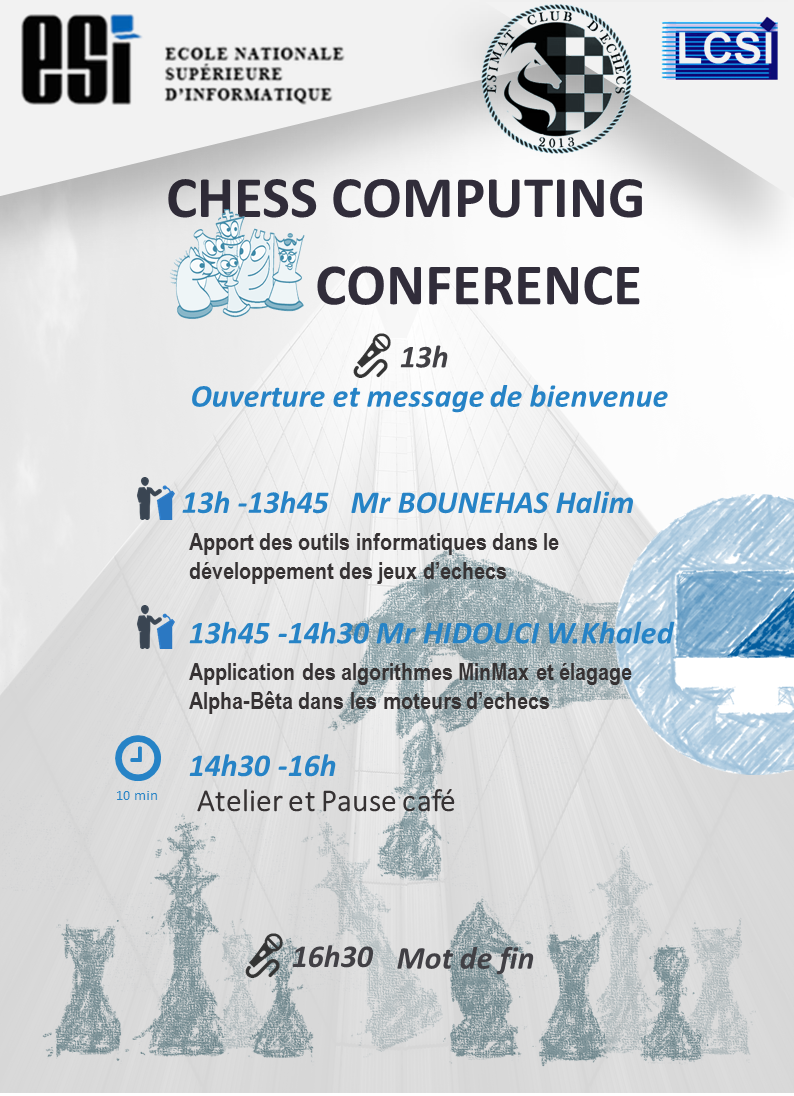
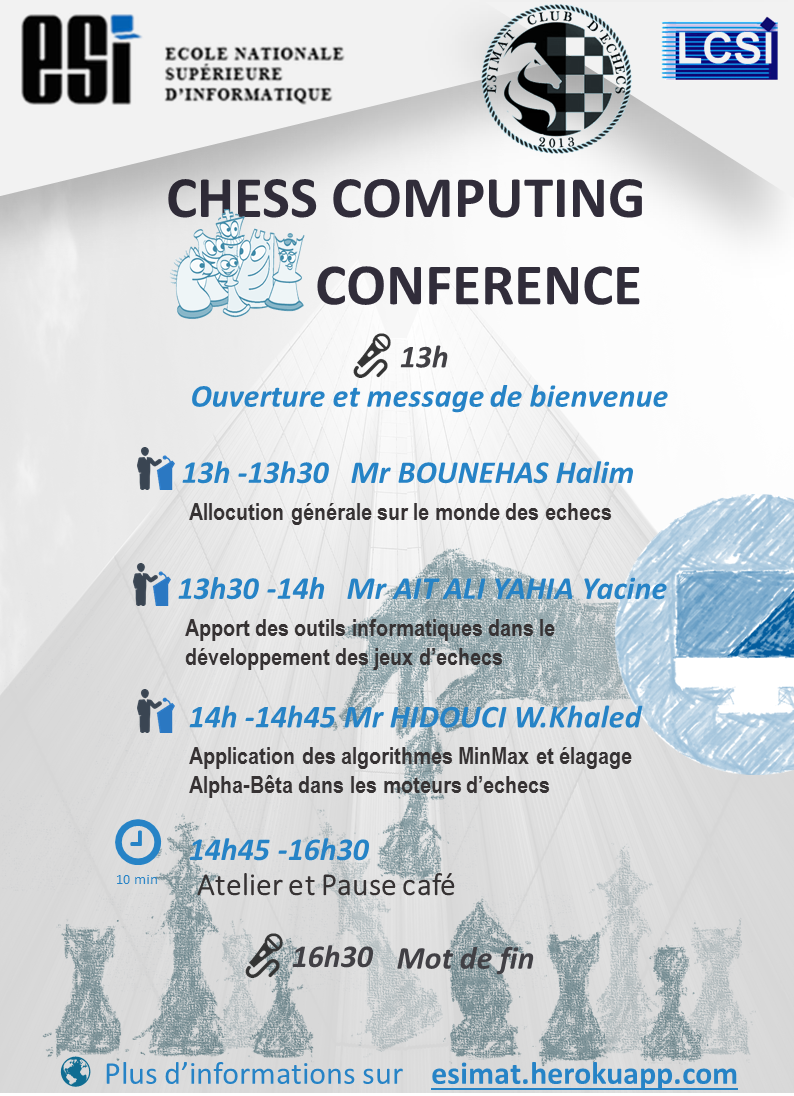
last commit

Changed region(s): [[0.1209, 0.4033, 0.8463, 0.8376], [0.5441, 0.9617, 0.937, 1.0], [0.0605, 0.9617, 0.5139, 0.9927]]

diff --git a/conf.html b/conf.html
@@ -63,7 +63,7 @@
 					<p>
 		              Le club d’échec ESIMAT avec le concours du laboratoire LCSI organise la troisième conférence débat sur le  chess  computing le Mardi 14 Février à 13h à l’auditorium.
 		              Une plénière dont le thème est  ʺ Algorithme Minimax et élagage alpha betaʺ  sera animée par le professeur HIDOUCI  Walid, celle-ci s’adresse particulièrement aux étudiants du cycle CPI et 1CS. Par ailleurs, en atelier des programmes simples réalisés par des étudiants 2CS SIQ/SIL seront mis à la disposition des étudiants  intéressés et ce  dans le cadre du lancement  l’année prochaine des premières  olympiades nationales des moteurs d’échecs.
-		              Dans la tradition et pour enrichir le débat chaque année le club ESIMAT invite une personnalité du monde des échecs ; cette année notre invité est Mr BOUNEHAS Halim ancien arbitre international et qui fut président de la fédération algérienne des échecs de 1998 à 2009. Durant cette période il a aussi été président de l’union méditerranéenne des échecs. Parmi ces amis on compte Anatoly KARPOV ancien champion du monde des échecs et Bachar KOUATLY actuellement président de la fédération française des échecs. Dans son allocution il abordera entre autre de l’apport des outils informatiques pour l’entrainement des joueurs de haut niveau.
+		              Dans la tradition et pour enrichir le débat chaque année le club ESIMAT invite une personnalité du monde des échecs ; cette année notre invité est Mr BOUNEHAS Halim ancien arbitre international et qui fut président de la fédération algérienne des échecs de 1998 à 2009. Durant cette période il a aussi été président de l’union méditerranéenne des échecs. Parmi ces amis on compte Anatoly KARPOV ancien champion du monde des échecs et Bachar KOUATLY actuellement président de la fédération française des échecs. 
 		              Le public de l’ESI (enseignants, étudiants) et toute personne extérieure désirant assister et participer aux débats sont cordialement invités à cette conférence.
 					</p>
           		<center><img src="img/conf3-prog.png"></center>

diff --git a/conf3.html b/conf3.html
@@ -71,7 +71,7 @@
 					<p>
               Le club d’échec ESIMAT avec le concours du laboratoire LCSI organise la troisième conférence débat sur le  chess  computing le Mardi 14 Février à 13h à l’auditorium.
               Une plénière dont le thème est  ʺ Algorithme Minimax et élagage alpha betaʺ  sera animée par le professeur HIDOUCI  Walid, celle-ci s’adresse particulièrement aux étudiants du cycle CPI et 1CS. Par ailleurs, en atelier des programmes simples réalisés par des étudiants 2CS SIQ/SIL seront mis à la disposition des étudiants  intéressés et ce  dans le cadre du lancement  l’année prochaine des premières  olympiades nationales des moteurs d’échecs.
-              Dans la tradition et pour enrichir le débat chaque année le club ESIMAT invite une personnalité du monde des échecs ; cette année notre invité est Mr BOUNEHAS Halim ancien arbitre international et qui fut président de la fédération algérienne des échecs de 1998 à 2009. Durant cette période il a aussi été président de l’union méditerranéenne des échecs. Parmi ces amis on compte Anatoly KARPOV ancien champion du monde des échecs et Bachar KOUATLY actuellement président de la fédération française des échecs. Dans son allocution il abordera entre autre de l’apport des outils informatiques pour l’entrainement des joueurs de haut niveau.
+              Dans la tradition et pour enrichir le débat chaque année le club ESIMAT invite une personnalité du monde des échecs ; cette année notre invité est Mr BOUNEHAS Halim ancien arbitre international et qui fut président de la fédération algérienne des échecs de 1998 à 2009. Durant cette période il a aussi été président de l’union méditerranéenne des échecs. Parmi ces amis on compte Anatoly KARPOV ancien champion du monde des échecs et Bachar KOUATLY actuellement président de la fédération française des échecs. 
               Le public de l’ESI (enseignants, étudiants) et toute personne extérieure désirant assister et participer aux débats sont cordialement invités à cette conférence.
 					</p>
           <center><img src="img/conf3-prog.png"></center>

diff --git a/css/style3.css b/css/style3.css
@@ -85,7 +85,7 @@ Main Components
   top: 25vh;
 }
 .projects-container .cd-single-project:nth-of-type(2)::after {
-  background-image: url("../img/conf3.jpg");
+  background: url("../img/conf3.jpg") ;
 }
 .projects-container .cd-single-project:nth-of-type(2)::before {
   content: '../img/conf3.jpg';
@@ -94,7 +94,7 @@ Main Components
   top: 50vh;
 }
 .projects-container .cd-single-project:nth-of-type(3)::after {
-  background-image: url("../img/conf3.png");
+  background: url("../img/conf3.png") 50% 100% no-repeat;
 }
 .projects-container .cd-single-project:nth-of-type(3)::before {
   content: 'img/conf3.jpg';
@@ -164,7 +164,7 @@ Main Components
     /*content: 'img/conf3.jpg';*/
   }
   .projects-container .cd-single-project:nth-of-type(2)::after {
-    background-image: url("../img/conf2.jpg");
+    background: url("../img/conf2.jpg") 50% no-repeat;
     /*background-image: url("../img/conf3.png");*/
   }
   .projects-container .cd-single-project:nth-of-type(3) {

diff --git a/conf2.html b/conf2.html
@@ -15,7 +15,7 @@
 <body>
 	<div class="projects-container project-is-open">
 		<ul>
-			<li class="cd-single-project">
+			<li class="cd-single-project"style="visibility:hidden;">
 				<div class="cd-title">
 					<h2>Deuxième conférence sur le chess computing</h2>
 				</div> <!-- .cd-title -->
@@ -58,7 +58,7 @@
 				</div> <!-- .cd-project-info -->
 			</li>
 
-			<li class="cd-single-project ">
+			<li class="cd-single-project "style="visibility:hidden;">
 				<div class="cd-title">
           <h2> Troixième conférence sur le chess computing 2017</h2>
 				</div> <!-- .cd-title -->
